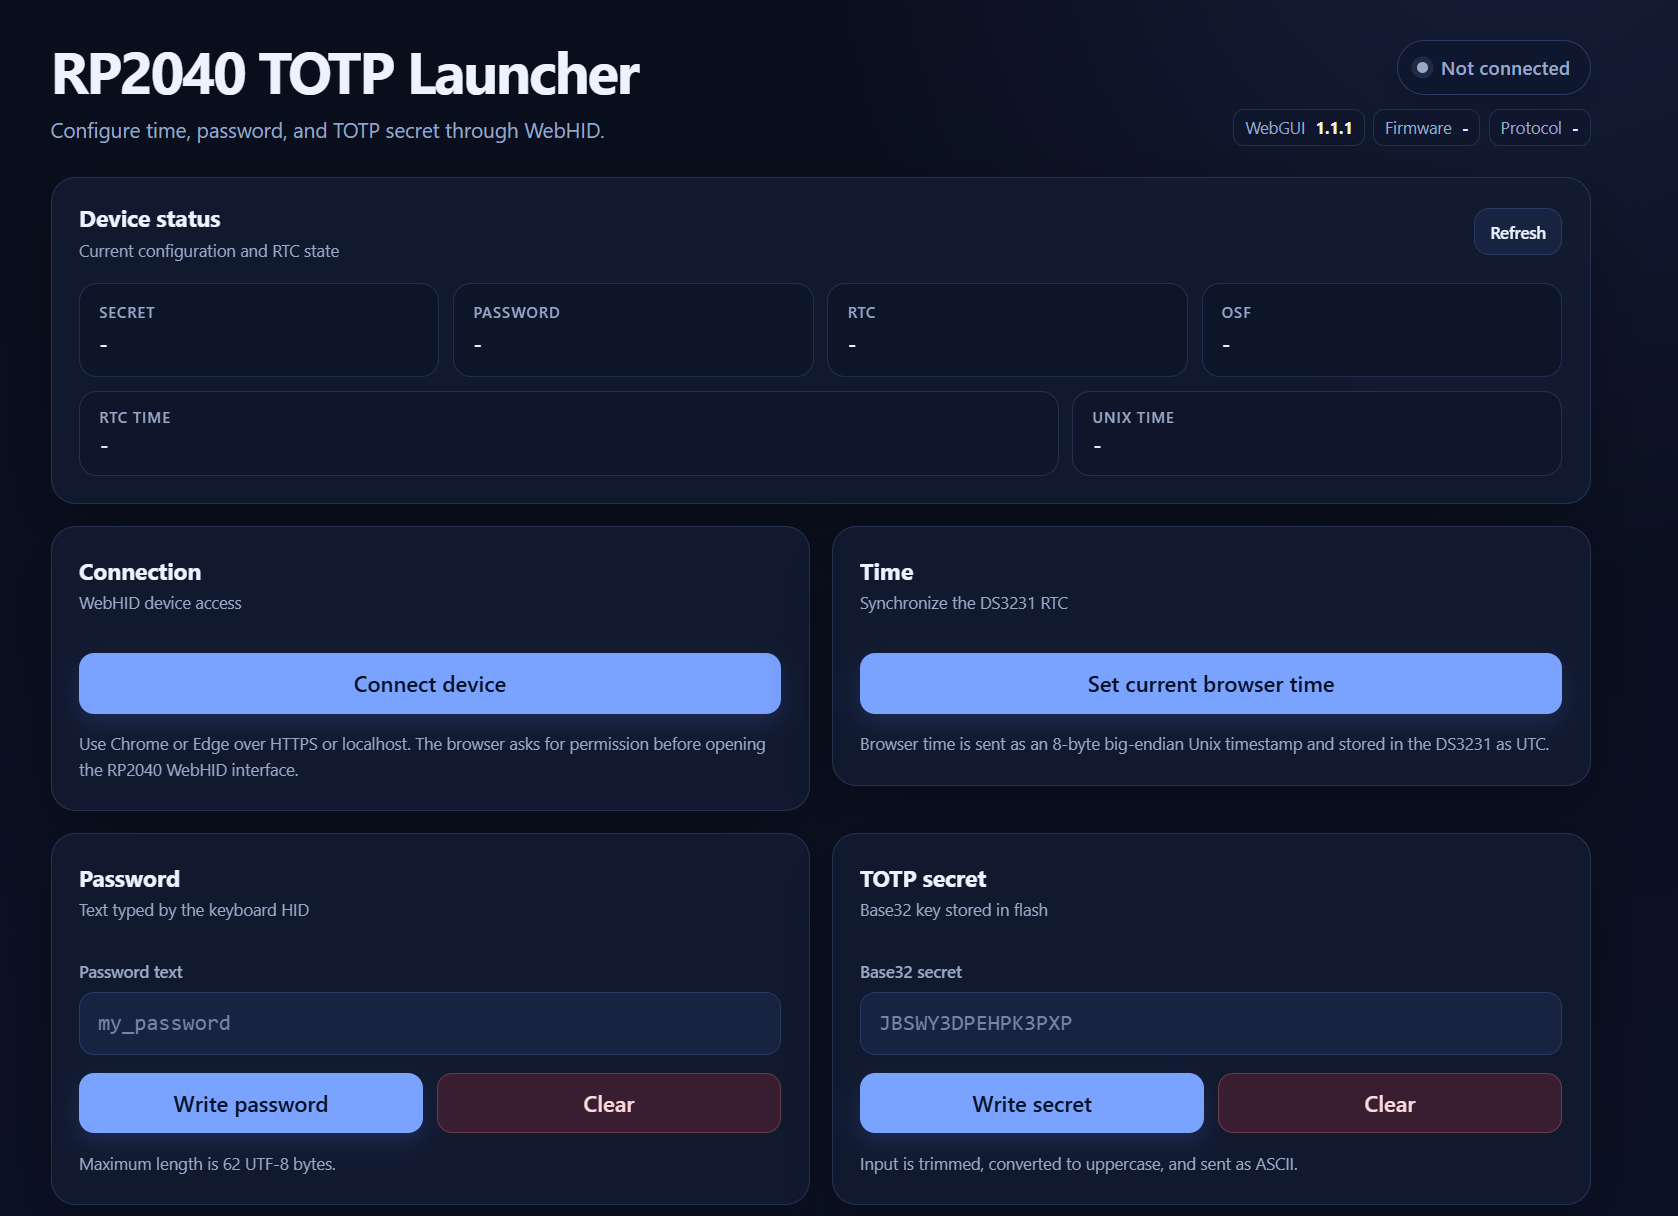
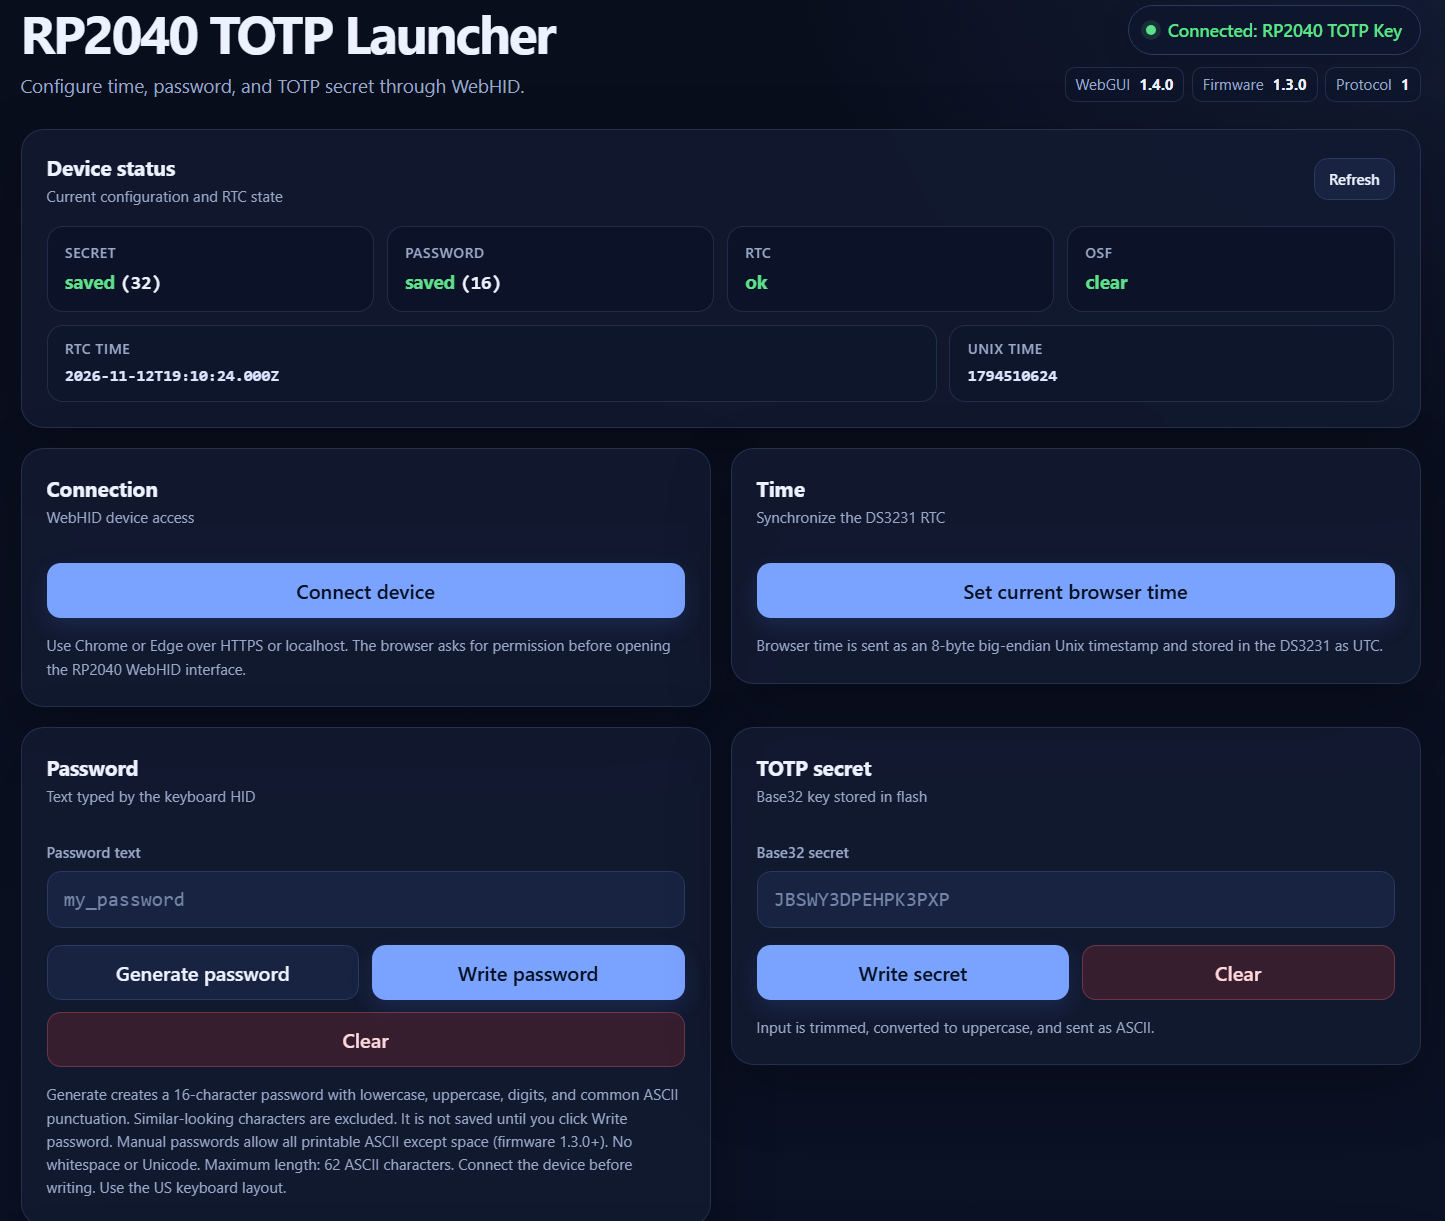
Expand ASCII password support and improve WebGUI generator
- Add HID mappings for all 94 printable ASCII characters except space
- Validate passwords in firmware before saving and typing
- Reject unsupported characters instead of silently skipping them
- Expand password generator with visually distinct ASCII characters
- Guarantee lowercase, uppercase, digits, and special characters
- Allow all printable ASCII characters except space for manual input
- Maintain WebGUI compatibility with older firmware versions
- Bump firmware version to 1.3.0 and WebGUI version to 1.4.0
- Update README with supported characters and password generation rules

diff --git a/rp2040-webhid-launcher.html b/rp2040-webhid-launcher.html
@@ -501,10 +501,11 @@
                     </div>
                     <div id="passwordHint" class="hint">
                         Generate creates a 16-character password with lowercase, uppercase, digits,
-                        and + - _. Similar-looking characters are excluded. It is not saved until
-                        you click Write password. Manually entered passwords may use A-Z, a-z, 0-9,
-                        space, tab, newline, = + - _ . , / \. Maximum length: 62 UTF-8 bytes. Use
-                        the US keyboard layout on the host.
+                        and common ASCII punctuation. Similar-looking characters are excluded. It is
+                        not saved until you click Write password. Manual passwords allow all
+                        printable ASCII except space (firmware 1.3.0+). No whitespace or Unicode.
+                        Maximum length: 62 ASCII characters. Connect the device before writing. Use
+                        the US keyboard layout.
                     </div>
                 </section>
                 <section class="card stack">
@@ -544,17 +545,18 @@
         </div>
     </main>
     <script>
-        // Keep in sync with ascii_to_hid() in src/main.c.
-        const PASSWORD_ALLOWED_CHARS =
-            'abcdefghijklmnopqrstuvwxyzABCDEFGHIJKLMNOPQRSTUVWXYZ0123456789 =+-_.,/\\\t\n';
+        // Manual passwords: printable ASCII without spaces or control characters.
+        // Generated passwords omit common visually ambiguous characters.
+        const PASSWORD_LEGACY_CHARS =
+            'abcdefghijklmnopqrstuvwxyzABCDEFGHIJKLMNOPQRSTUVWXYZ0123456789=+-_.,/\\';
         const PASSWORD_GENERATOR_GROUPS = [
             'abcdefghjknprstuvwxyz',
             'ACDEFHJKMNPQRTUVWXY',
             '347',
-            '+-_',
+            '!@#$%^&*()-_=+[]{};:,.<>?/~',
         ];
         const PASSWORD_GENERATOR_LENGTH = 16;
-        const WEBGUI_VERSION = '1.3.0',
+        const WEBGUI_VERSION = '1.4.0',
             SUPPORTED_PROTOCOL_VERSION = 1,
             USB_VID = 51966,
             USB_PID = 16392,
@@ -571,6 +573,8 @@
             RSP_ERR = 129,
             RSP_STATUS = 130;
         let dev = null;
+        let firmwareFullAscii = false;
+        let firmwareVersionKnown = false;
         const els = {
             deviceBadge: document.getElementById('deviceBadge'),
             log: document.getElementById('log'),
@@ -592,22 +596,26 @@
         function validatePassword() {
             const password = els.passwordInput.value;
             const unsupported = [
-                ...new Set([...password].filter((c) => !PASSWORD_ALLOWED_CHARS.includes(c))),
+                ...new Set(
+                    [...password].filter((c) => c.codePointAt(0) < 0x21 || c.codePointAt(0) > 0x7e),
+                ),
             ];
-            const bytes = new TextEncoder().encode(password).length;
+            const legacyUnsupported = [...password].some((c) => !PASSWORD_LEGACY_CHARS.includes(c));
             let error = '';
             if (unsupported.length) {
                 error =
                     'Unsupported characters: ' +
                     unsupported.map((c) => JSON.stringify(c)).join(', ');
-            } else if (bytes > 62) {
-                error = `Password is ${bytes} UTF-8 bytes; max is 62`;
+            } else if (password.length > 62) {
+                error = `Password is ${password.length} characters; max is 62`;
+            } else if (firmwareVersionKnown && !firmwareFullAscii && legacyUnsupported) {
+                error = 'Extended ASCII passwords require firmware 1.3.0 or newer';
             }
             els.passwordError.textContent = error;
             els.passwordError.hidden = !error;
             els.passwordInput.setAttribute('aria-invalid', String(Boolean(error)));
-            els.setPasswordBtn.disabled = Boolean(error);
-            return !error;
+            els.setPasswordBtn.disabled = Boolean(error) || !firmwareVersionKnown;
+            return !error && firmwareVersionKnown;
         }
         // Rejection sampling avoids modulo bias when selecting random characters.
         function secureRandomIndex(length) {
@@ -727,6 +735,9 @@
                 l = e[22],
                 d = e[23],
                 u = e[24];
+            firmwareVersionKnown = true;
+            firmwareFullAscii = l > 1 || (l === 1 && d >= 3);
+            validatePassword();
             ((els.webguiVersion.textContent = WEBGUI_VERSION),
                 (els.firmwareVersion.textContent = `${l}.${d}.${u}`),
                 (els.protocolVersion.textContent = t.toString()),
@@ -801,6 +812,9 @@
             log(`Unknown packet type 0x${n.toString(16)}`);
         }
         async function connect() {
+            firmwareVersionKnown = false;
+            firmwareFullAscii = false;
+            validatePassword();
             const e = await navigator.hid.requestDevice({
                 filters: [
                     {

diff --git a/src/main.c b/src/main.c
@@ -160,6 +160,7 @@ enum {
     ERR_BAD_SECRET = 4,
     ERR_FLASH_WRITE = 5,
     ERR_HID_NOT_READY = 6,
+    ERR_BAD_PASSWORD = 7,
 };
 
 //--------------------------------------------------------------------+
@@ -998,6 +999,22 @@ static inline bool button_pressed_raw(void)
 // ASCII -> HID
 //--------------------------------------------------------------------+
 
+// Passwords are restricted to non-space printable ASCII (0x21..0x7E).
+// The keyboard mapping also handles '\n' for automatic Enter after TOTP/password.
+#define PASSWORD_MAX_WEBHID_LEN 62u
+
+static bool password_ascii_valid(const uint8_t *data, size_t len)
+{
+    if (!data || len > PASSWORD_MAX_WEBHID_LEN)
+        return false;
+
+    for (size_t i = 0; i < len; i++) {
+        if (data[i] < 0x21u || data[i] > 0x7Eu)
+            return false;
+    }
+    return true;
+}
+
 static bool ascii_to_hid(char c, uint8_t *mod, uint8_t *key)
 {
     *mod = 0;
@@ -1022,40 +1039,125 @@ static bool ascii_to_hid(char c, uint8_t *mod, uint8_t *key)
     }
 
     switch (c) {
-    case ' ':
-        *key = HID_KEY_SPACE;
-        return true;
     case '\n':
         *key = HID_KEY_ENTER;
+        return true;
+    case '-':
+        *key = HID_KEY_MINUS;
         return true;
     case '=':
         *key = HID_KEY_EQUAL;
         return true;
-    case '+':
-        *mod = KEYBOARD_MODIFIER_LEFTSHIFT;
-        *key = HID_KEY_EQUAL;
+    case '[':
+        *key = HID_KEY_BRACKET_LEFT;
         return true;
-    case '-':
-        *key = HID_KEY_MINUS;
+    case ']':
+        *key = HID_KEY_BRACKET_RIGHT;
+        return true;
+    case '\\':
+        *key = HID_KEY_BACKSLASH;
+        return true;
+    case ';':
+        *key = HID_KEY_SEMICOLON;
+        return true;
+    case '\'':
+        *key = HID_KEY_APOSTROPHE;
+        return true;
+    case '`':
+        *key = HID_KEY_GRAVE;
+        return true;
+    case ',':
+        *key = HID_KEY_COMMA;
+        return true;
+    case '.':
+        *key = HID_KEY_PERIOD;
+        return true;
+    case '/':
+        *key = HID_KEY_SLASH;
+        return true;
+    case '!':
+        *mod = KEYBOARD_MODIFIER_LEFTSHIFT;
+        *key = HID_KEY_1;
+        return true;
+    case '@':
+        *mod = KEYBOARD_MODIFIER_LEFTSHIFT;
+        *key = HID_KEY_2;
+        return true;
+    case '#':
+        *mod = KEYBOARD_MODIFIER_LEFTSHIFT;
+        *key = HID_KEY_3;
+        return true;
+    case '$':
+        *mod = KEYBOARD_MODIFIER_LEFTSHIFT;
+        *key = HID_KEY_4;
+        return true;
+    case '%':
+        *mod = KEYBOARD_MODIFIER_LEFTSHIFT;
+        *key = HID_KEY_5;
+        return true;
+    case '^':
+        *mod = KEYBOARD_MODIFIER_LEFTSHIFT;
+        *key = HID_KEY_6;
+        return true;
+    case '&':
+        *mod = KEYBOARD_MODIFIER_LEFTSHIFT;
+        *key = HID_KEY_7;
+        return true;
+    case '*':
+        *mod = KEYBOARD_MODIFIER_LEFTSHIFT;
+        *key = HID_KEY_8;
+        return true;
+    case '(':
+        *mod = KEYBOARD_MODIFIER_LEFTSHIFT;
+        *key = HID_KEY_9;
+        return true;
+    case ')':
+        *mod = KEYBOARD_MODIFIER_LEFTSHIFT;
+        *key = HID_KEY_0;
         return true;
     case '_':
         *mod = KEYBOARD_MODIFIER_LEFTSHIFT;
         *key = HID_KEY_MINUS;
         return true;
-    case '.':
-        *key = HID_KEY_PERIOD;
+    case '+':
+        *mod = KEYBOARD_MODIFIER_LEFTSHIFT;
+        *key = HID_KEY_EQUAL;
         return true;
-    case ',':
-        *key = HID_KEY_COMMA;
+    case '{':
+        *mod = KEYBOARD_MODIFIER_LEFTSHIFT;
+        *key = HID_KEY_BRACKET_LEFT;
         return true;
-    case '/':
-        *key = HID_KEY_SLASH;
+    case '}':
+        *mod = KEYBOARD_MODIFIER_LEFTSHIFT;
+        *key = HID_KEY_BRACKET_RIGHT;
         return true;
-    case '\\':
+    case '|':
+        *mod = KEYBOARD_MODIFIER_LEFTSHIFT;
         *key = HID_KEY_BACKSLASH;
         return true;
-    case '\t':
-        *key = HID_KEY_TAB;
+    case ':':
+        *mod = KEYBOARD_MODIFIER_LEFTSHIFT;
+        *key = HID_KEY_SEMICOLON;
+        return true;
+    case '"':
+        *mod = KEYBOARD_MODIFIER_LEFTSHIFT;
+        *key = HID_KEY_APOSTROPHE;
+        return true;
+    case '~':
+        *mod = KEYBOARD_MODIFIER_LEFTSHIFT;
+        *key = HID_KEY_GRAVE;
+        return true;
+    case '<':
+        *mod = KEYBOARD_MODIFIER_LEFTSHIFT;
+        *key = HID_KEY_COMMA;
+        return true;
+    case '>':
+        *mod = KEYBOARD_MODIFIER_LEFTSHIFT;
+        *key = HID_KEY_PERIOD;
+        return true;
+    case '?':
+        *mod = KEYBOARD_MODIFIER_LEFTSHIFT;
+        *key = HID_KEY_SLASH;
         return true;
     default:
         return false;
@@ -1455,8 +1557,11 @@ static void hid_task(void)
                 return;
             }
 
-            if (g_cfg.password[0] == '\0') {
+            size_t password_len = strnlen(g_cfg.password, APP_MAX_PASSWORD_LEN);
+            if (password_len == 0) {
                 dbg_printf("[hid] password not set\r\n");
+            } else if (!password_ascii_valid((const uint8_t *)g_cfg.password, password_len)) {
+                dbg_printf("[hid] stored password contains unsupported characters or length\r\n");
             } else {
                 dbg_printf("[hid] typing password\r\n");
                 kbd_type_string(g_cfg.password);
@@ -1550,8 +1655,12 @@ void tud_hid_set_report_cb(uint8_t instance, uint8_t report_id, hid_report_type_
     }
 
     case CMD_SET_PASSWORD: {
-        if (payload_len >= APP_MAX_PASSWORD_LEN) {
+        if (payload_len > PASSWORD_MAX_WEBHID_LEN || payload_len >= APP_MAX_PASSWORD_LEN) {
             vendor_send_err(cmd, ERR_BAD_LENGTH);
+            return;
+        }
+        if (!password_ascii_valid(payload, payload_len)) {
+            vendor_send_err(cmd, ERR_BAD_PASSWORD);
             return;
         }
 
